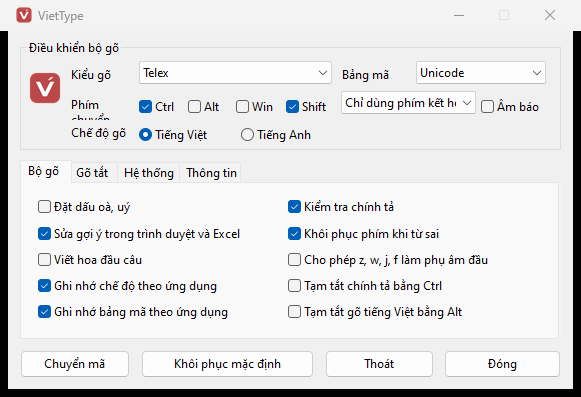
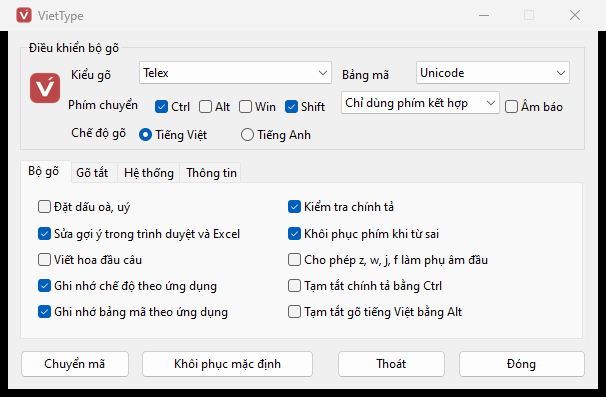
Fix shortcut controls and release VietType 0.2.19

diff --git a/engine/Engine.cpp b/engine/Engine.cpp
@@ -1358,9 +1358,17 @@ void vEnglishMode(const vKeyEventState& state, const Uint16& data, const bool& i
 
 void vKeyHandleEvent(const vKeyEvent& event,
                      const vKeyEventState& state,
-                     const Uint16& data,
+                     const Uint16& keyCode,
                      const Uint8& capsStatus,
                      const bool& otherControlKey) {
+    Uint16 data = keyCode;
+#if _WIN32
+    if (event == vKeyEvent::Keyboard && !otherControlKey &&
+        keyCode >= VK_NUMPAD0 && keyCode <= VK_NUMPAD9) {
+        const auto digit = static_cast<Uint16>(KEY_0 + keyCode - VK_NUMPAD0);
+        if (usesVniKeys(digit)) data = digit;
+    }
+#endif
     _isCaps = (capsStatus == 1 || //shift
                capsStatus == 2); //caps lock
     if ((IS_NUMBER_KEY(data) && capsStatus == 1)

diff --git a/README.md b/README.md
@@ -115,4 +115,4 @@ cmake --build build --config Release
 
 ### Phát hành trên GitHub
 
-Cập nhật số phiên bản trong `CMakeLists.txt` và `win32/VietType/VietType.rc` trước khi build. Tạo Release chính thức từ đúng commit bằng tag `vX.Y.Z`, ví dụ `v0.2.18`, và đính kèm tệp Windows x64 với tên `VietType.exe`. Giữ mã nguồn và giấy phép trong cùng tag.
+Cập nhật số phiên bản trong `CMakeLists.txt` và `win32/VietType/VietType.rc` trước khi build. Tạo Release chính thức từ đúng commit bằng tag `vX.Y.Z`, ví dụ `v0.2.19`, và đính kèm tệp Windows x64 với tên `VietType.exe`. Giữ mã nguồn và giấy phép trong cùng tag.
